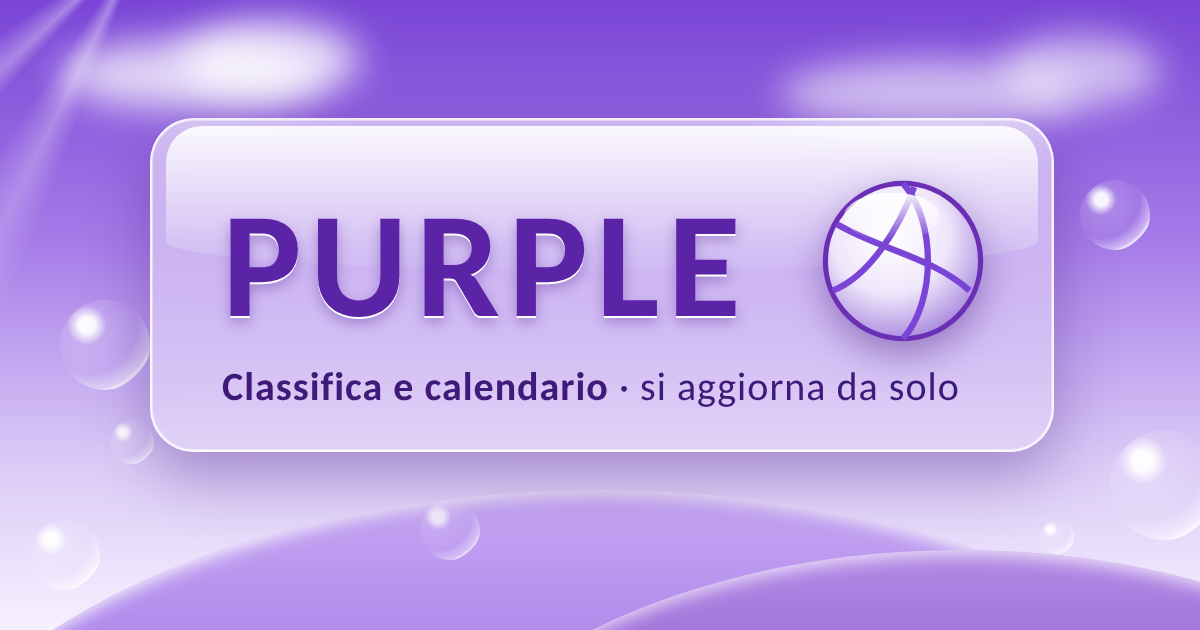
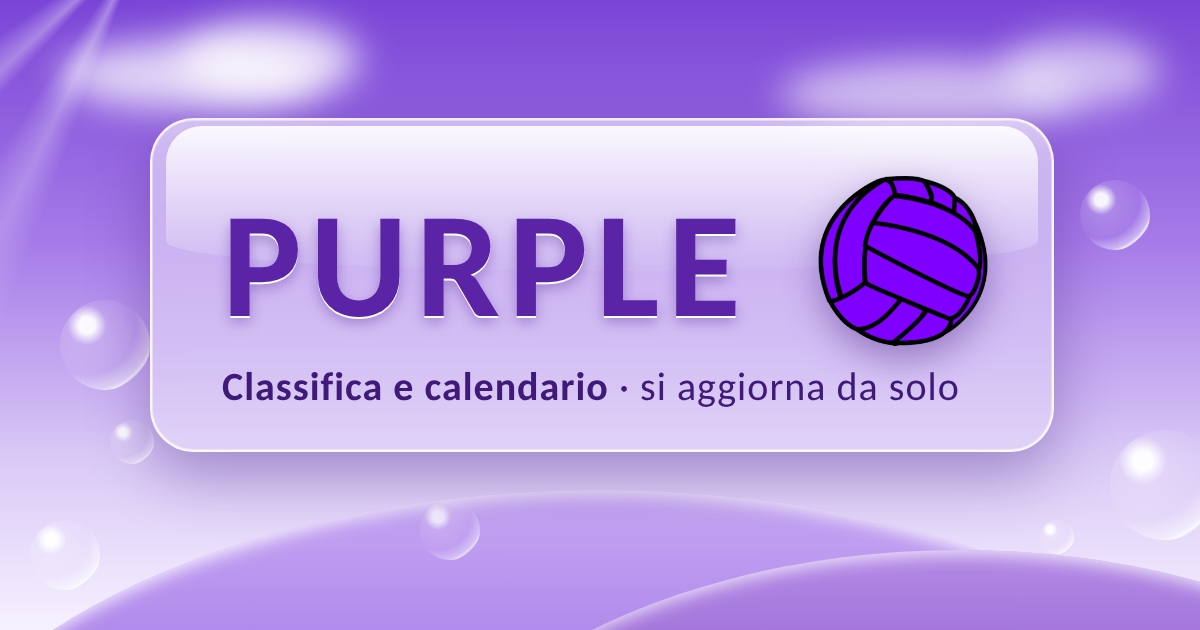
Add files via upload

Changed region(s): [[0.6783, 0.2714, 0.8325, 0.573]]

diff --git a/index.html b/index.html
@@ -9,7 +9,7 @@
 <meta property="og:title" content="Purple">
 <meta property="og:description" content="Calendario, classifica e allerta rivali. Si aggiorna da solo.">
 <meta property="og:type" content="website">
-<meta property="og:image" content="https://dudushi.github.io/progettoviola/og.png">
+<meta property="og:image" content="https://dudushi.github.io/progettoviola/og.png?v=3">
 <meta property="og:image:width" content="1200">
 <meta property="og:image:height" content="630">
 <link rel="icon" href="icon.png">
@@ -44,7 +44,7 @@ body{margin:0;background:var(--bg);color:var(--text);font:12px/1.35 var(--ui);ov
 .head > *{position:relative}
 .head .t{flex:1;font:bold 15px/1 Verdana,Geneva,sans-serif;letter-spacing:3px;color:var(--sel)}
 .head .t small{display:block;font:10px var(--ui);letter-spacing:0;color:#8a7fa0;margin-top:4px}
-.orb{width:26px;height:26px;flex:none}
+.orb{width:30px;height:30px;flex:none;display:block}
 .d-net{display:block;width:100%;height:58px;margin:14px 0 4px}
 
 /* ===== quiet gel alerts ===== */
@@ -102,12 +102,7 @@ tbody tr.sel th{background:#4a1c86;color:#fff}
 
   <div class="head">
     <div class="t">PURPLE<small>Eccellenza maschile, girone A</small></div>
-    <svg class="orb" viewBox="0 0 46 46" aria-hidden="true">
-      <defs><radialGradient id="og" cx="45%" cy="35%" r="65%"><stop offset="0" stop-color="#fff"/><stop offset=".6" stop-color="#f1eafb"/><stop offset="1" stop-color="#c9b8e6"/></radialGradient></defs>
-      <circle cx="23" cy="23" r="21" fill="url(#og)" stroke="#8f6bbf" stroke-width="1.6"/>
-      <path d="M23 2 C 32 12, 32 34, 23 44 M5 13 C 17 20, 31 22, 41 31 M4 31 C 14 27, 22 14, 26 3" fill="none" stroke="#8f6bbf" stroke-width="2"/>
-      <ellipse cx="17" cy="11" rx="8" ry="4" fill="#fff" opacity=".9"/>
-    </svg>
[1 lines of base64/hex data omitted]
   </div>
 
   <div class="alerts" id="alerts"></div>
@@ -128,10 +123,7 @@ tbody tr.sel th{background:#4a1c86;color:#fff}
     <line x1="40" y1="20" x2="40" y2="56" stroke="#111" stroke-width="3"/>
     <line x1="720" y1="20" x2="720" y2="56" stroke="#111" stroke-width="3"/>
     <g stroke="#111" stroke-linecap="round" stroke-width="1.5"><line x1="300" y1="6" x2="372" y2="12"/><line x1="312" y1="14" x2="370" y2="16"/><line x1="326" y1="20" x2="372" y2="20"/></g>
-    <g transform="translate(392 14) rotate(30)">
-      <circle r="11" fill="#fff" stroke="#111" stroke-width="2"/>
-      <path d="M0 -11 C 5 -4, 5 4, 0 11 M-10 -5 C -3 -1, 5 1, 10 5 M-10 5 C -5 3, 1 -5, 3 -10" fill="none" stroke="#111" stroke-width="1.4"/>
-    </g>
[1 lines of base64/hex data omitted]
   </svg>
 
   <p class="cmd">&gt;&gt; <i>calendario</i>('purple')</p>
